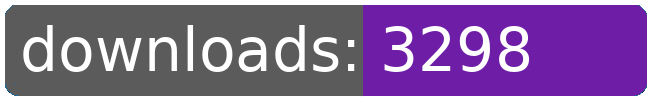
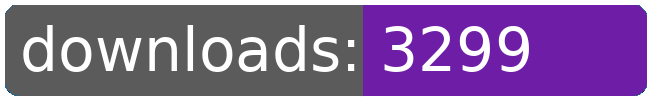
dl log written

Changed region(s): [[0.7692, 0.27, 0.8308, 0.72]]

diff --git a/README.md b/README.md
@@ -98,8 +98,8 @@
 		<td>20</td>
 		<td>56</td>
 		<td>88</td>
-		<td>119</td>
-		<td>+ 31</td>
+		<td>120</td>
+		<td>+ 32</td>
 	</tr>
 	<tr>
 		<td>pugoutfitter</td>
@@ -186,8 +186,8 @@
 		<td></td>
 		<td></td>
 		<td></td>
-		<td>3298</td>
-		<td>332</td>
+		<td>3299</td>
+		<td>333</td>
 	</tr>
 </table>
 </sub></sup>
@@ -333,8 +333,8 @@
 		<td>20</td>
 		<td>56</td>
 		<td>88</td>
-		<td>119</td>
-		<td>+ 31</td>
+		<td>120</td>
+		<td>+ 32</td>
 	</tr>
 	<tr>
 		<td>pugoutfitter</td>
@@ -377,8 +377,8 @@
 		<td></td>
 		<td></td>
 		<td></td>
-		<td>3298</td>
-		<td>332</td>
+		<td>3299</td>
+		<td>333</td>
 	</tr>
 </table>
 </sub></sup>
